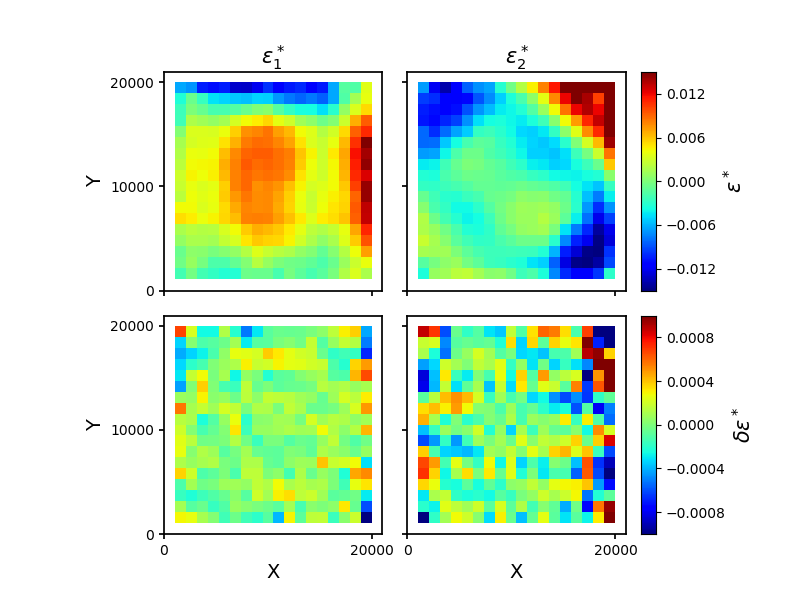
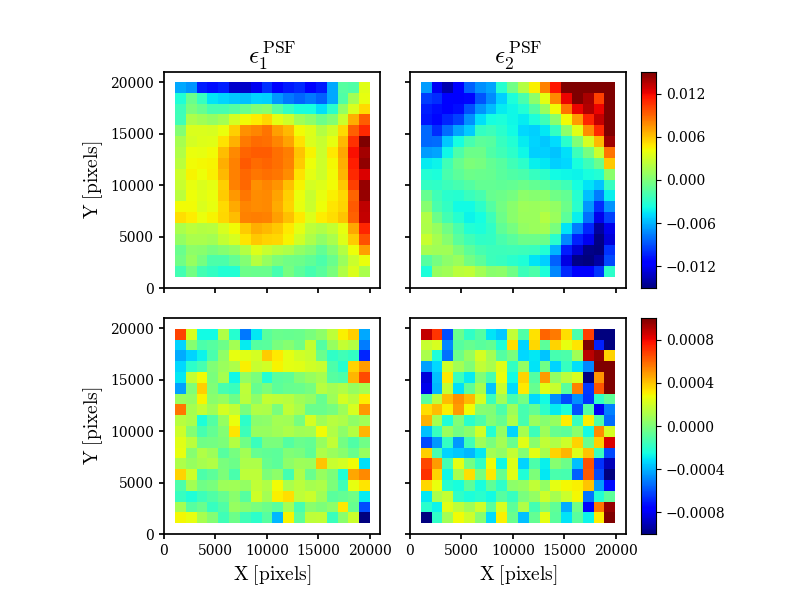
average_delta_estar_x_y.py:
Prettyfication for the final publication version

diff --git a/PSF_systests/PSF_plots/average_delta_estar_x_y.py b/PSF_systests/PSF_plots/average_delta_estar_x_y.py
@@ -27,7 +27,7 @@ if(XY_or_chip=='X_Y'):  # square
     fig = plt.figure(figsize=(8, 6))
     grid = ImageGrid(fig, 111,          # as in plt.subplot(111)
                  nrows_ncols=(2,2),
-                 axes_pad=0.25,
+                 axes_pad=0.3,
                  share_all=True,
                  cbar_location="right",
                  cbar_mode="edge",
@@ -38,7 +38,7 @@ elif(XY_or_chip=='chip'): # row
     fig = plt.figure(figsize=(6, 6))
     grid = ImageGrid(fig, 111,          # as in plt.subplot(111)
                  nrows_ncols=(1,4),
-                 axes_pad=0.25,
+                 axes_pad=0.3,
                  share_all=True,
                  cbar_location="right",
                  cbar_mode="edge",
@@ -55,9 +55,11 @@ rcParams['pdf.use14corefonts'] = True
 
 font = {'family' : 'serif',
         'weight' : 'normal',
-        'size'   : 19}
+        'size'   : 14}
 
 plt.rc('font', **font)
+#This makes episilons appear as epsilons rather than varepsilons
+plt.rcParams["mathtext.fontset"] = "cm"
 
 #============================================================
 #Now read in the data
@@ -103,11 +105,18 @@ for j in range (1,3):  # what do we want to bin?  And we may want to fix the col
 
     if(j==1):   # data
 
-        de1 = pe1_data 
-        de2 = pe2_data
-        cmin=-0.015
-        cmax= 0.015
-        labinfo = '$\epsilon^*$'
+        if(XY_or_chip=='X_Y'):
+            de1 = pe1_data 
+            de2 = pe2_data
+            cmin=-0.015
+            cmax= 0.015
+        else:
+            de1 = pe1_data/10.0
+            de2 = pe2_data/10.0
+            cmin=-0.001
+            cmax= 0.001
+
+        labinfo = '$\epsilon^{\mathrm{PSF}}$'
 
     elif(j==2):  # ellipticity residuals
 
@@ -115,7 +124,7 @@ for j in range (1,3):  # what do we want to bin?  And we may want to fix the col
         de2 = pe2_data - pe2_mod 
         cmin=-0.001
         cmax= 0.001
-        labinfo = '$\delta\epsilon^*$'
+        labinfo = '$\delta\epsilon^{\mathrm{PSF}}$'
 
 #    elif(j==3): # you might also want to look at size residuals and size
                  # but to make pretty publication plots I comment this part out
@@ -166,8 +175,9 @@ for j in range (1,3):  # what do we want to bin?  And we may want to fix the col
                                 xedges[0], xedges[32]],
                         aspect='equal',interpolation='none', cmap=cmap, clim=(cmin,cmax)) 
 
-        thecb = ax.cax.colorbar(im)  
-        thecb.set_label_text(labinfo,size=15)
+        thecb = ax.cax.colorbar(im)
+        thecb.ax.tick_params(labelsize=10) 
+        #thecb.set_label_text(labinfo,size=15)
 
         # lets make the axes a little bit thicker
         for axis in ['top','bottom','left','right']:
@@ -175,19 +185,26 @@ for j in range (1,3):  # what do we want to bin?  And we may want to fix the col
         ax.tick_params(width=1.25)
 
 # And fix the labels with a nice large font size 
-grid[0].set_title('$\epsilon_1^*$',size=15)
-grid[1].set_title('$\epsilon_2^*$',size=15)
 
 if(XY_or_chip=='X_Y'):
-    grid[0].set_ylabel('Y',size=14)     
-    grid[2].set_ylabel('Y',size=14)   
-    grid[2].set_xlabel('X',size=14)     
-    grid[3].set_xlabel('X',size=14) 
+    grid[0].set_title(r'$\epsilon_1^{\, \mathrm{PSF}}$',size=18)
+    grid[1].set_title(r'$\epsilon_2^{\, \mathrm{PSF}}$',size=18)
+    grid[0].set_ylabel(r'$\mathrm{Y \,\, [pixels]}$',size=14)     
+    grid[2].set_ylabel(r'$\mathrm{Y \,\, [pixels]}$',size=14)   
+    grid[2].set_xlabel(r'$\mathrm{X \,\, [pixels]}$',size=14)     
+    grid[3].set_xlabel(r'$\mathrm{X \,\, [pixels]}$',size=14) 
 else:
-    grid[0].set_ylabel('Chip ID',size=14) 
-    grid[2].set_xlabel('$r$-band magnitude            ',size=14) 
-    grid[2].set_title('$\delta\epsilon_1^*$',size=15)
-    grid[3].set_title('$\delta\epsilon_2^*$',size=15)
+    grid[0].set_title(r'$\epsilon_1^{\, \mathrm{PSF}}/10$',size=16)
+    grid[1].set_title(r'$\epsilon_2^{\, \mathrm{PSF}}/10$',size=16)
+    grid[0].set_ylabel('Chip ID',size=12) 
+    grid[2].set_xlabel('$r$-band magnitude            ',size=12)
+    grid[2].set_title(r'$\delta\epsilon_1^{\mathrm{PSF}}$',size=16)
+    grid[3].set_title(r'$\delta\epsilon_2^{\mathrm{PSF}}$',size=16)
 
+grid[0].tick_params(labelsize=10)
+grid[1].tick_params(labelsize=10)
+grid[2].tick_params(labelsize=10)
+grid[3].tick_params(labelsize=10)
+    
 plt.savefig('PLOTS/epsf_and_depsf_%s_V1.0.0_%s_%s.png' % (patch, LFVER, XY_or_chip))
 plt.show()
